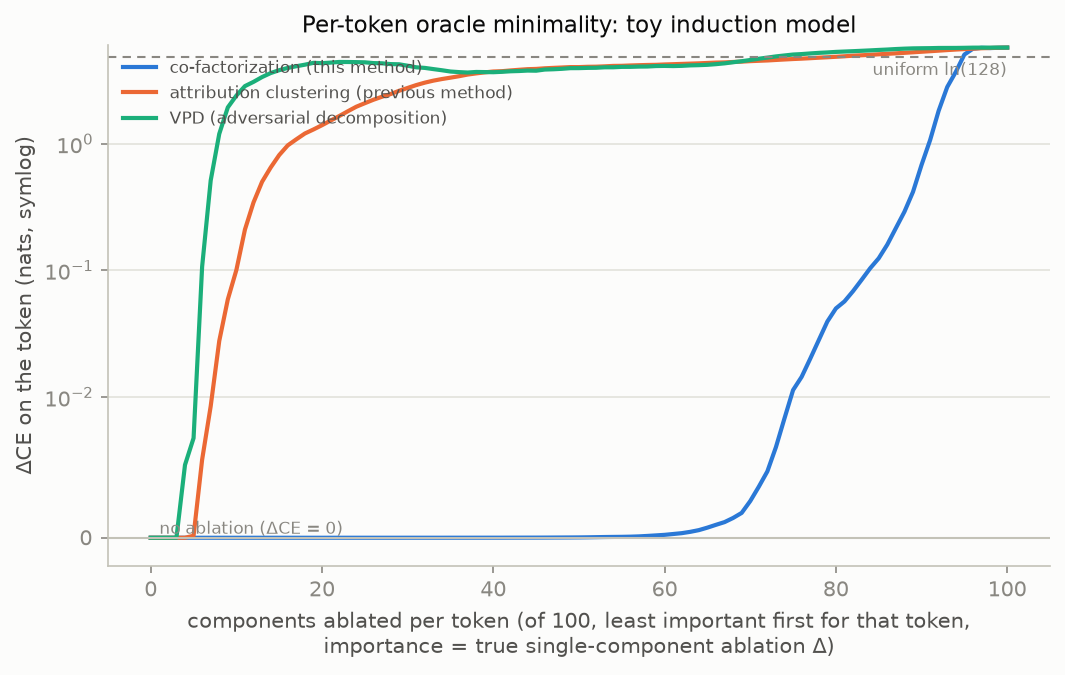
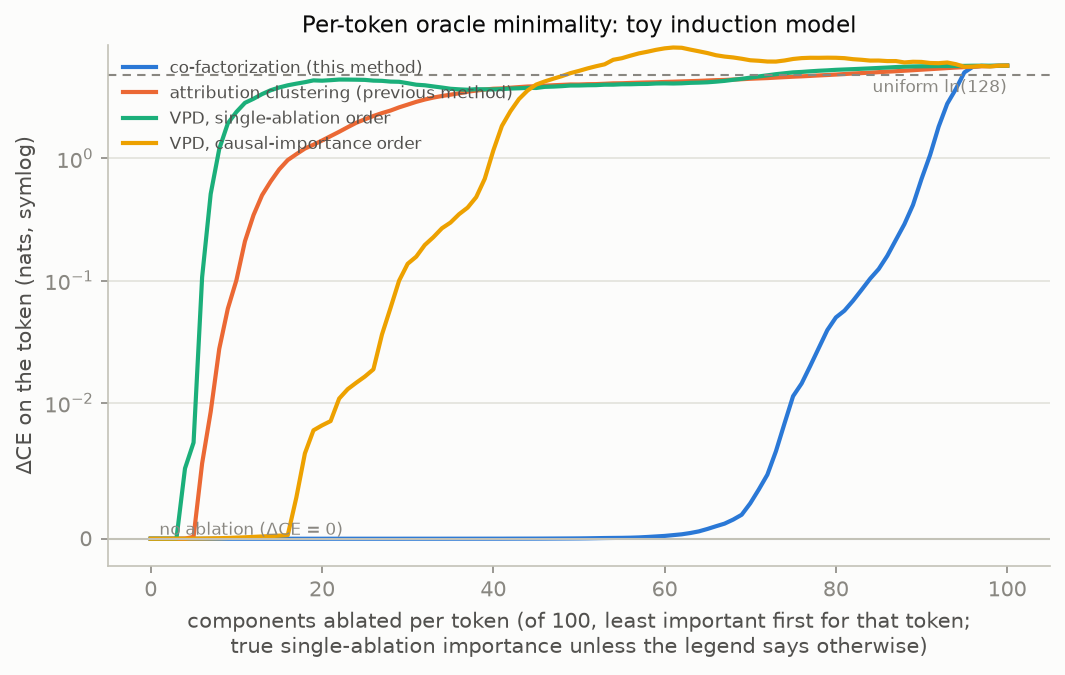
vpd_ci_curve: per-token VPD ordering by its causal-importance function
CI ordering (28/35/37 removable at 99/95/90% retention) far outperforms
single-ablation ordering (5/7/8) for VPD -- CI is trained under joint
masks, so it accounts for component interactions that greedy single
ablation misses. Chart gains the fourth line.

Claude-Session: https://claude.ai/code/session_01H3gD9brqT1XJjbJgPALijy

diff --git a/parfact/vpd_ci_curve.py b/parfact/vpd_ci_curve.py
@@ -1,0 +1,141 @@
+"""Per-token VPD curve ordered by VPD's own causal-importance function.
+
+For each event, each of the 100 clustered components is scored by its member
+subcomponents' causal importances from the trained CI transformer
+(per-subcomponent max over sequence positions, summed over cluster members),
+and ablated cumulatively least-important-first — VPD's native cheap ordering,
+the analog of z_ic for the co-factorization. Appends the curve to the run's
+ablation_curve.json as spec 'per_example_asc:ci'.
+
+    python vpd_ci_curve.py --run out/vpd_C100
+"""
+import argparse
+import json
+from pathlib import Path
+
+import torch
+import torch.nn.functional as F
+from torch.func import functional_call, vmap
+
+from induction_model import InductionModel
+from atoms import make_events
+from ablation_curve import build_ranks
+from vpd_toy import MODULES, CITransformer, install_components, clear_masks
+
+
+def main():
+    ap = argparse.ArgumentParser()
+    ap.add_argument("--run", type=Path,
+                    default=Path(__file__).parent / "out/vpd_C100")
+    ap.add_argument("--ckpt", type=Path,
+                    default=Path(__file__).parent / "out/induction_model.pt")
+    ap.add_argument("--n_seq", type=int, default=2048)
+    ap.add_argument("--chunk", type=int, default=1024)
+    ap.add_argument("--seed", type=int, default=0)
+    ap.add_argument("--device", default="cuda:1")
+    args = ap.parse_args()
+    dev = args.device
+
+    blob = torch.load(args.run / "components.pt", weights_only=True,
+                      map_location=dev)
+    comps = {n: t.float() for n, t in blob["components"].items()}
+    lab = blob["labels"].to(dev)
+    n_comp = next(iter(comps.values())).shape[0]
+    state = torch.load(args.run / "vpd_state.pt", weights_only=True,
+                       map_location=dev)
+
+    # clean model for the curve itself
+    model = InductionModel().to(dev)
+    model.load_state_dict(torch.load(args.ckpt)["state_dict"])
+    model.eval()
+    for p in model.parameters():
+        p.requires_grad_(False)
+
+    # wrapped copy of the model to run the CI function
+    wrapped = InductionModel().to(dev)
+    wrapped.load_state_dict(torch.load(args.ckpt)["state_dict"])
+    wrapped.eval()
+    wrappers = install_components(wrapped, state["ci_fn"]["proj_out.weight"]
+                                  .shape[0] // len(MODULES))
+    wrapped.to(dev)
+    c_per = wrappers[MODULES[0]].C
+    for n, w in wrappers.items():
+        w.V.data.copy_(state["wrappers"][n]["V"].to(dev))
+        w.U.data.copy_(state["wrappers"][n]["U"].to(dev))
+    ci_fn = CITransformer({n: 16 for n in MODULES}, c_per).to(dev)
+    ci_fn.load_state_dict(state["ci_fn"])
+    ci_fn.eval()
+
+    events = make_events(model, args.n_seq, "final", seed=args.seed + 1000)
+    seq, m_tok = events["seq"], events["m_token"]
+    n_ev = seq.shape[0]
+
+    # -- per-event component importance from causal importances --------------
+    with torch.no_grad():
+        scores = []
+        for i in range(0, n_ev, args.chunk):
+            clear_masks(wrappers)
+            wrapped(seq[i: i + args.chunk])
+            ci_lower, _ = ci_fn({n: w.last_input
+                                 for n, w in wrappers.items()})
+            # [B, 8*C]: per-subcomponent max CI over positions, module order
+            # matching the clustering (sorted paths)
+            scores.append(torch.cat([ci_lower[n].amax(dim=1)
+                                     for n in sorted(MODULES)], dim=1))
+        sub_score = torch.cat(scores)                  # [N, 800]
+        imp = torch.zeros(n_ev, n_comp, device=dev)
+        imp.index_add_(1, lab, sub_score)
+    print(f"CI importance [{n_ev}, {n_comp}] "
+          f"(mean active comps/event at >0.1: "
+          f"{(imp > 0.1).float().sum(1).mean():.1f})")
+
+    # -- cumulative per-token ablation curve ---------------------------------
+    params = {n: p.detach() for n, p in model.named_parameters()}
+    in_dims = ({n: (0 if n in comps else None) for n in params}, 0)
+
+    def fwd(pdict, s):
+        return functional_call(model, pdict, (s.unsqueeze(0),))[0, -1]
+
+    batched_fwd = vmap(fwd, in_dims=in_dims)
+    rank = build_ranks("per_example_asc", imp, args.seed)
+    curve = []
+    with torch.no_grad():
+        for k in range(n_comp + 1):
+            ces, hits = [], []
+            for i in range(0, n_ev, args.chunk):
+                sl = slice(i, i + args.chunk)
+                mask = (rank[sl] < k).float()
+                pdict = dict(params)
+                for name, ct in comps.items():
+                    pdict[name] = params[name] - (mask @ ct.reshape(
+                        n_comp, -1)).reshape(-1, *ct.shape[1:])
+                logits = batched_fwd(pdict, seq[sl])
+                ces.append(F.cross_entropy(logits, m_tok[sl],
+                                           reduction="none"))
+                hits.append(logits.argmax(-1) == m_tok[sl])
+            ce = torch.cat(ces).mean().item()
+            acc = torch.cat(hits).float().mean().item()
+            curve.append({"k": k, "ce": round(ce, 6), "acc": round(acc, 5)})
+            if k % 20 == 0 or k == n_comp:
+                print(f"  K={k:<4} CE {ce:9.4f}  acc {acc:.4f}", flush=True)
+    base_ce = curve[0]["ce"]
+    for r in curve:
+        r["delta"] = round(r["ce"] - base_ce, 6)
+
+    out = json.load(open(args.run / "ablation_curve.json"))
+    out["curves"]["per_example_asc:ci"] = curve
+
+    def acc_budget(c, floor):
+        ok = [r["k"] for r in c if all(r2["acc"] >= floor
+                                       for r2 in c if r2["k"] <= r["k"])]
+        return max(ok) if ok else 0
+
+    out["components_removable_keeping_acc"]["per_example_asc:ci"] = {
+        f"{fl}": acc_budget(curve, fl) for fl in (0.99, 0.95, 0.9)}
+    (args.run / "ablation_curve.json").write_text(json.dumps(out, indent=1))
+    print("removable keeping acc:",
+          out["components_removable_keeping_acc"]["per_example_asc:ci"])
+
+
+if __name__ == "__main__":
+    main()

diff --git a/parfact/compare_ablation.py b/parfact/compare_ablation.py
@@ -41,12 +41,16 @@ def plot_oracle_pair(ours: dict, prev: dict, spec: str, path: Path,
     fig, ax = plt.subplots(figsize=(7.2, 4.6), dpi=150)
     fig.patch.set_facecolor("#fcfcfb")
     ax.set_facecolor("#fcfcfb")
-    series = [("co-factorization (this method)", ours, "#2a78d6"),
-              ("attribution clustering (previous method)", prev, "#eb6834")]
+    series = [("co-factorization (this method)", ours, spec, "#2a78d6"),
+              ("attribution clustering (previous method)", prev, spec,
+               "#eb6834")]
     if vpd is not None:
-        series.append(("VPD (adversarial decomposition)", vpd, "#1baf7a"))
-    for label, blob, color in series:
-        curve = blob["curves"][spec]
+        series.append(("VPD, single-ablation order", vpd, spec, "#1baf7a"))
+        if "per_example_asc:ci" in vpd["curves"]:
+            series.append(("VPD, causal-importance order", vpd,
+                           "per_example_asc:ci", "#eda100"))
+    for label, blob, sp, color in series:
+        curve = blob["curves"][sp]
         ax.plot([r["k"] for r in curve], [r["delta"] for r in curve], lw=2,
                 color=color, label=label)
     ax.axhline(0, color="#c3c2b7", lw=1)
@@ -57,9 +61,9 @@ def plot_oracle_pair(ours: dict, prev: dict, spec: str, path: Path,
             fontsize=8, color="#898781", ha="right")
     ax.set_yscale("symlog", linthresh=1e-2)
     ax.set_ylim(bottom=-2e-3)
-    ax.set_xlabel(f"components ablated per token (of {ours['C']}, "
-                  "least important first for that token,\n"
-                  "importance = true single-component ablation Δ)",
+    ax.set_xlabel(f"components ablated per token (of {ours['C']}, least "
+                  "important first for that token;\ntrue single-ablation "
+                  "importance unless the legend says otherwise)",
                   color="#52514e")
     ax.set_ylabel("ΔCE on the token (nats, symlog)", color="#52514e")
     ax.set_title("Per-token oracle minimality: toy induction model",

diff --git a/parfact/ablation_curve.py b/parfact/ablation_curve.py
@@ -41,7 +41,8 @@ ORDER_LABELS = {
 }
 SCORE_LABELS = {"logp": "z from log p", "logit": "z from logit",
                 "logodds": "z from log-odds",
-                "oracle": "true single-ablation Δ"}
+                "oracle": "true single-ablation Δ",
+                "ci": "VPD causal importance"}
 
 
 def spec_label(spec: str) -> str:
